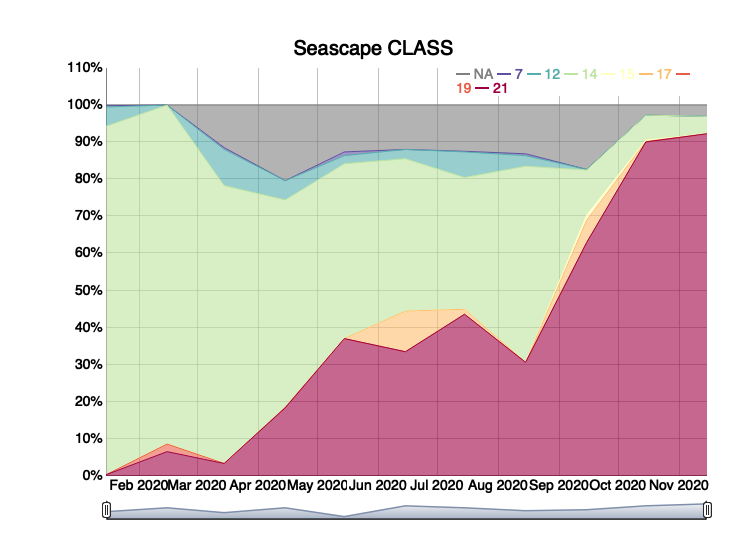
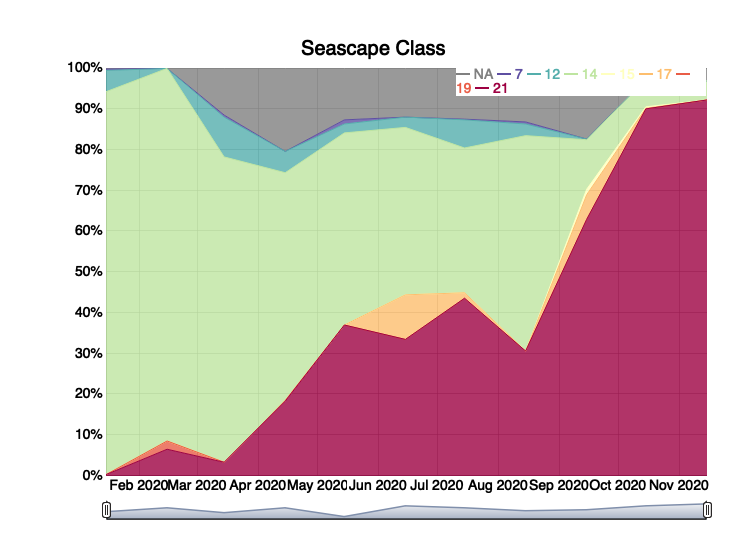
∆ ss_var, show dygraph w/ 100% max more opacity

diff --git a/README.md b/README.md
@@ -64,19 +64,12 @@ ply <- get_url_ply(
   sanctuary = sanctuary, 
   dir_ply   = dir_ply)
 ply
-#> Simple feature collection with 1 feature and 8 fields
+#> Geometry set for 1 feature 
 #> geometry type:  MULTIPOLYGON
 #> dimension:      XY
 #> bbox:           xmin: -123.1401 ymin: 35.5 xmax: -121.1036 ymax: 37.88163
 #> geographic CRS: WGS 84
-#> Registered S3 method overwritten by 'cli':
-#>   method     from    
-#>   print.boxx spatstat
-#> # A tibble: 1 x 9
-#>   SANCTUARY DATUM POLY_ID AREA_KM AREA_SM AREA_NM AREA_ACRES Area2013Mi
-#> * <chr>     <chr>   <dbl>   <dbl>   <dbl>   <dbl>      <dbl>      <dbl>
-#> 1 MBNMS     NAD …       1  15783.   6094.   4602.   3900060.      8505.
-#> # … with 1 more variable: geometry <MULTIPOLYGON [°]>
+#> MULTIPOLYGON (((-122.5 35.5, -123 35.5, -123 35...
 
 # get SeaScape dataset information
 ss_info <- get_ss_info(dataset = ss_dataset)
@@ -126,6 +119,9 @@ map_ss_grd(grd)
 # summarize SeaScape grids into a time series table
 tbl <- sum_ss_grds_to_ts(grds, ts_csv = ts_csv)
 tbl
+#> Registered S3 method overwritten by 'cli':
+#>   method     from    
+#>   print.boxx spatstat
 #> # A tibble: 54 x 4
 #>    date       cellvalue n_cells pct_cells
 #>    <date>         <int>   <int>     <dbl>
@@ -174,7 +170,7 @@ arguments to functions in the following order:
     program.
 2.  `get_ss_grds()`: Based on `dir_grd`, save grids (aka rasters) as
     GeoTIFs (\*.tif) with filenames of form
-    “grd\_\[ss_var\]\_\[date\].tif”, readable by any GIS program.
+    “grd\_\[ss\_var\]\_\[date\].tif”, readable by any GIS program.
 3.  `plot_ss_ts()`: Based on `ts_csv`, save the table as a
     comma-seperated value (\*.csv) file, readable by any spreadsheet
     program.
